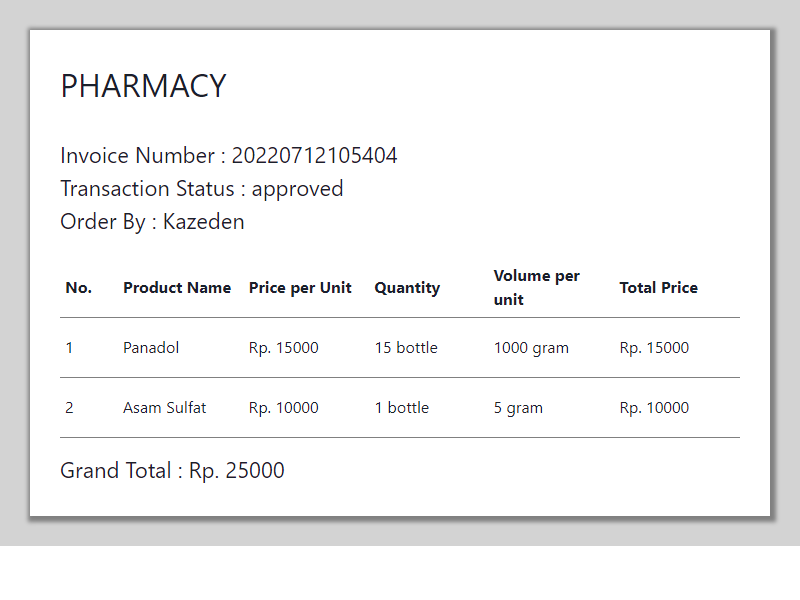
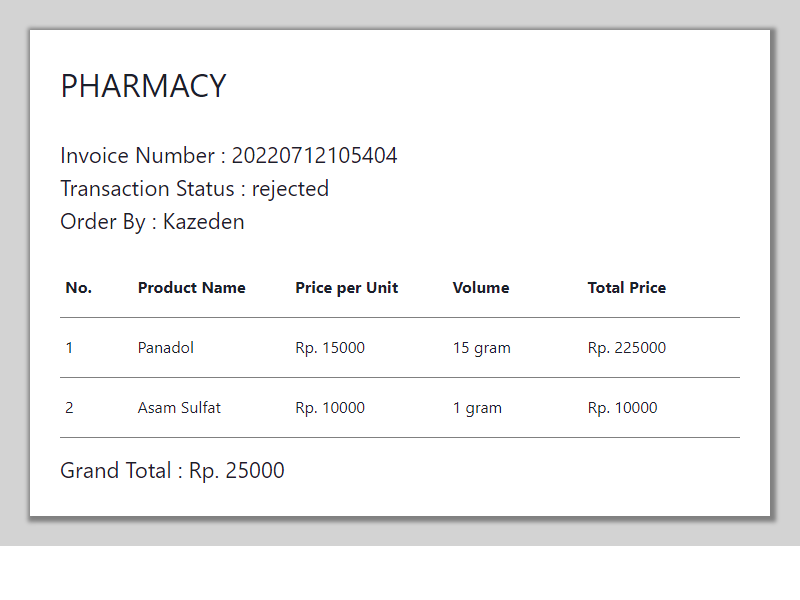
Invoice Update

diff --git a/src/controllers/transaction-controllers.js b/src/controllers/transaction-controllers.js
@@ -229,6 +229,37 @@ module.exports.approveTransaction = async(req,res) =>{
         const GET_TRANSACTION_DATA = `SELECT * FROM transactions WHERE id = ?`
         const [TRANSACTION] = await database.execute(GET_TRANSACTION_DATA, [id]);
 
+        const GET_TRANSACTION_DETAILS = `
+        SELECT * FROM transaction_items 
+        JOIN products ON transaction_items.product_id = products.id 
+        JOIN product_units ON product_units.id = products.product_unit_id
+        WHERE transaction_id = ?`
+        const [TRANSACTIONDETAILS] = await database.execute(GET_TRANSACTION_DETAILS, [id]);
+
+        console.log(TRANSACTIONDETAILS)
+
+        let details = "";
+        let count = 0;
+        TRANSACTIONDETAILS.forEach(item => {
+            count++;
+            details += `
+                <tr style = "border: 1px solid black; border-collapse: collapse;">
+                    <td style = "border: 1px solid black; border-collapse: collapse; padding:10px">
+                        ${count}
+                    </td>
+                    <td style = "border: 1px solid black; border-collapse: collapse; padding:10px">
+                        ${item.name}
+                    </td>
+                    <td style = "border: 1px solid black; border-collapse: collapse; padding:10px">
+                        ${item.volume} ${item.unit_name}
+                    </td>
+                    <td style = "border: 1px solid black; border-collapse: collapse; padding:10px">
+                        Rp. ${item.price}
+                    </td>
+                </tr>
+            `
+        });
+        
         const transaction = TRANSACTION[0]
 
         const browser = await puppeteer.launch();
@@ -255,36 +286,60 @@ module.exports.approveTransaction = async(req,res) =>{
                 <body>
                     <h1>Pharmacy Invoice ${transaction.inv_number}</h1>
                     <p>Thank you for Purchasing from our store! Here are the details of the transaction.</p>
-                    <table style = "border: 1px solid black; mborder-collapse: collapse;">
-                        <tr style = "border: 1px solid black; mborder-collapse: collapse;">
-                            <th style = "border: 1px solid black; mborder-collapse: collapse; padding:10px">
+                    <table style = "border: 1px solid black; border-collapse: collapse;">
+                        <tr style = "border: 1px solid black; border-collapse: collapse;">
+                            <th style = "border: 1px solid black; border-collapse: collapse; padding:10px">
                                 Invoice Number
                             </th>
-                            <th style = "border: 1px solid black; mborder-collapse: collapse; padding:10px">
+                            <th style = "border: 1px solid black; border-collapse: collapse; padding:10px">
                                 Transaction Status
                             </th>
-                            <th style = "border: 1px solid black; mborder-collapse: collapse; padding:10px">
+                            <th style = "border: 1px solid black; border-collapse: collapse; padding:10px">
                                 Created At
                             </th>
-                            <th style = "border: 1px solid black; mborder-collapse: collapse; padding:10px">
+                            <th style = "border: 1px solid black; border-collapse: collapse; padding:10px">
                                 Total Payment
                             </th>
-                        </tr style = "border: 1px solid black; mborder-collapse: collapse;">
+                        </tr style = "border: 1px solid black; border-collapse: collapse;">
                         <tr>
-                            <td style = "border: 1px solid black; mborder-collapse: collapse; padding:10px">
+                            <td style = "border: 1px solid black; border-collapse: collapse; padding:10px">
                                 ${transaction.inv_number}
                             </td>
-                            <td style = "border: 1px solid black; mborder-collapse: collapse; padding:10px">
+                            <td style = "border: 1px solid black; border-collapse: collapse; padding:10px">
                                 ${transaction.status}
                             </td>
-                            <td style = "border: 1px solid black; mborder-collapse: collapse; padding:10px">
+                            <td style = "border: 1px solid black; border-collapse: collapse; padding:10px">
                                 ${transaction.created_at}
                             </td>
-                            <td style = "border: 1px solid black; mborder-collapse: collapse; padding:10px">
-                                ${transaction.total_payment}
+                            <td style = "border: 1px solid black; border-collapse: collapse; padding:10px">
+                                Rp. ${transaction.total_payment}
                             </td>
                         </tr>
                     </table>
+                    <h1>Details</h1>
+
+                    <table style = "border: 1px solid black; border-collapse: collapse;">
+                        <thead>
+                            <tr style = "border: 1px solid black; border-collapse: collapse;">
+                                <th style = "border: 1px solid black; border-collapse: collapse; padding:10px">
+                                    No.
+                                </th>
+                                <th style = "border: 1px solid black; border-collapse: collapse; padding:10px">
+                                    Product Name
+                                </th>
+                                <th style = "border: 1px solid black; border-collapse: collapse; padding:10px">
+                                    Volume
+                                </th>
+                                <th style = "border: 1px solid black; border-collapse: collapse; padding:10px">
+                                    Price
+                                </th>
+                            </tr>
+                        </thead>
+                        <tbody>
+                            ${details}
+                        </tbody>
+                    </table>
+
                     <p><a href="http://localhost:3000/invoice/${transaction.inv_number}">View Invoice Here</a></p>
                     <a href="http://localhost:5000/${transaction.inv_number}.png">View as Png</a>
                     <p>Contact Us : +62 7777 7777 777</p>
@@ -349,6 +404,38 @@ module.exports.rejectTransaction = async(req,res) =>{
         const GET_TRANSACTION_DATA = `SELECT * FROM transactions WHERE id = ?`
         const [TRANSACTION] = await database.execute(GET_TRANSACTION_DATA, [id]);
 
+        const GET_TRANSACTION_DETAILS = `
+        SELECT * FROM transaction_items 
+        JOIN products ON transaction_items.product_id = products.id 
+        JOIN product_units ON product_units.id = products.product_unit_id
+        WHERE transaction_id = ?`
+        const [TRANSACTIONDETAILS] = await database.execute(GET_TRANSACTION_DETAILS, [id]);
+
+        console.log(TRANSACTIONDETAILS)
+
+        let details = "";
+        let count = 0;
+        TRANSACTIONDETAILS.forEach(item => {
+            count++;
+            details += `
+                <tr style = "border: 1px solid black; border-collapse: collapse;">
+                    <td style = "border: 1px solid black; border-collapse: collapse; padding:10px">
+                        ${count}
+                    </td>
+                    <td style = "border: 1px solid black; border-collapse: collapse; padding:10px">
+                        ${item.name}
+                    </td>
+                    <td style = "border: 1px solid black; border-collapse: collapse; padding:10px">
+                        ${item.volume} ${item.unit_name}
+                    </td>
+                    <td style = "border: 1px solid black; border-collapse: collapse; padding:10px">
+                        Rp. ${item.price}
+                    </td>
+                </tr>
+            `
+        });
+        
+
         const transaction = TRANSACTION[0]
 
         const browser = await puppeteer.launch();
@@ -373,43 +460,62 @@ module.exports.rejectTransaction = async(req,res) =>{
             subject : 'Pharmacy Transaction Rejected',
             html : `
                 <body>
-                    <p>Your Transaction has been rejected.</p>
-                    <table style = "border: 1px solid black; mborder-collapse: collapse;">
-                        <tr style = "border: 1px solid black; mborder-collapse: collapse;">
-                            <th style = "border: 1px solid black; mborder-collapse: collapse; padding:10px">
+                    <h1>Your Pharmacy Transaction has been rejected.</h1>
+                    <table style = "border: 1px solid black; border-collapse: collapse;">
+                        <tr style = "border: 1px solid black; border-collapse: collapse;">
+                            <th style = "border: 1px solid black; border-collapse: collapse; padding:10px">
                                 Invoice Number
                             </th>
-                            <th style = "border: 1px solid black; mborder-collapse: collapse; padding:10px">
-                                Transaction Approved?
-                            </th>
-                            <th style = "border: 1px solid black; mborder-collapse: collapse; padding:10px">
+                            <th style = "border: 1px solid black; border-collapse: collapse; padding:10px">
                                 Transaction Status
                             </th>
-                            <th style = "border: 1px solid black; mborder-collapse: collapse; padding:10px">
+                            <th style = "border: 1px solid black; border-collapse: collapse; padding:10px">
                                 Created At
                             </th>
-                            <th style = "border: 1px solid black; mborder-collapse: collapse; padding:10px">
+                            <th style = "border: 1px solid black; border-collapse: collapse; padding:10px">
                                 Total Payment
                             </th>
-                        </tr style = "border: 1px solid black; mborder-collapse: collapse;">
+                        </tr style = "border: 1px solid black; border-collapse: collapse;">
                         <tr>
-                            <td style = "border: 1px solid black; mborder-collapse: collapse; padding:10px">
+                            <td style = "border: 1px solid black; border-collapse: collapse; padding:10px">
                                 ${transaction.inv_number}
                             </td>
-                            <td style = "border: 1px solid black; mborder-collapse: collapse; padding:10px">
-                                Rejected
+                            <td style = "border: 1px solid black; border-collapse: collapse; padding:10px">
+                                ${transaction.status}
                             </td>
-                            <td style = "border: 1px solid black; mborder-collapse: collapse; padding:10px">
-                                ${transaction.transaction_statuses_id}
-                            </td>
-                            <td style = "border: 1px solid black; mborder-collapse: collapse; padding:10px">
+                            <td style = "border: 1px solid black; border-collapse: collapse; padding:10px">
                                 ${transaction.created_at}
                             </td>
-                            <td style = "border: 1px solid black; mborder-collapse: collapse; padding:10px">
+                            <td style = "border: 1px solid black; border-collapse: collapse; padding:10px">
                                 ${transaction.total_payment}
                             </td>
                         </tr>
                     </table>
+
+                    <h1>Details</h1>
+
+                    <table style = "border: 1px solid black; border-collapse: collapse;">
+                        <thead>
+                            <tr style = "border: 1px solid black; border-collapse: collapse;">
+                                <th style = "border: 1px solid black; border-collapse: collapse; padding:10px">
+                                    No.
+                                </th>
+                                <th style = "border: 1px solid black; border-collapse: collapse; padding:10px">
+                                    Product Name
+                                </th>
+                                <th style = "border: 1px solid black; border-collapse: collapse; padding:10px">
+                                    Volume
+                                </th>
+                                <th style = "border: 1px solid black; border-collapse: collapse; padding:10px">
+                                    Price
+                                </th>
+                            </tr>
+                        </thead>
+                        <tbody>
+                            ${details}
+                        </tbody>
+                    </table>
+
                     <p><a href="http://localhost:3000/invoice/${transaction.inv_number}">View Invoice Here</a></p>
                     <a href="http://localhost:5000/${transaction.inv_number}.png">View as Png</a>
                     <p>Contact Us : +62 7777 7777 777</p>
@@ -425,31 +531,3 @@ module.exports.rejectTransaction = async(req,res) =>{
         res.status(500).send('Internal service error')
     }
 }
-
-// module.exports.sendTransactionEmail = async(req,res) =>{
-//     const id = req.body.id
-//     try{
-//         const transporter = nodemailer.createTransport({
-//             service : 'gmail',
-//             auth : {
-//                 user : `${email}`,
-//                 pass : "nyxbegqqntyfvbob"
-//             },
-//             tls : { rejectUnauthorized : false }
-//         })
-
-//         await transporter.sendMail({
-//             from : '<admin/> sevilenfilbert@gmail.com',
-//             to : `${email}`,
-//             subject : 'Pharmacy Invoice',
-//             html : `
-//                 <p>Thank you for Purchasing from our store!</p>
-//             `
-//         })
-//         res.status(200).send("Email Sent")
-//     }
-//     catch(error){
-//         console.log('error : ',error);
-//         res.status(500).send('Internal service error')
-//     }
-// }
